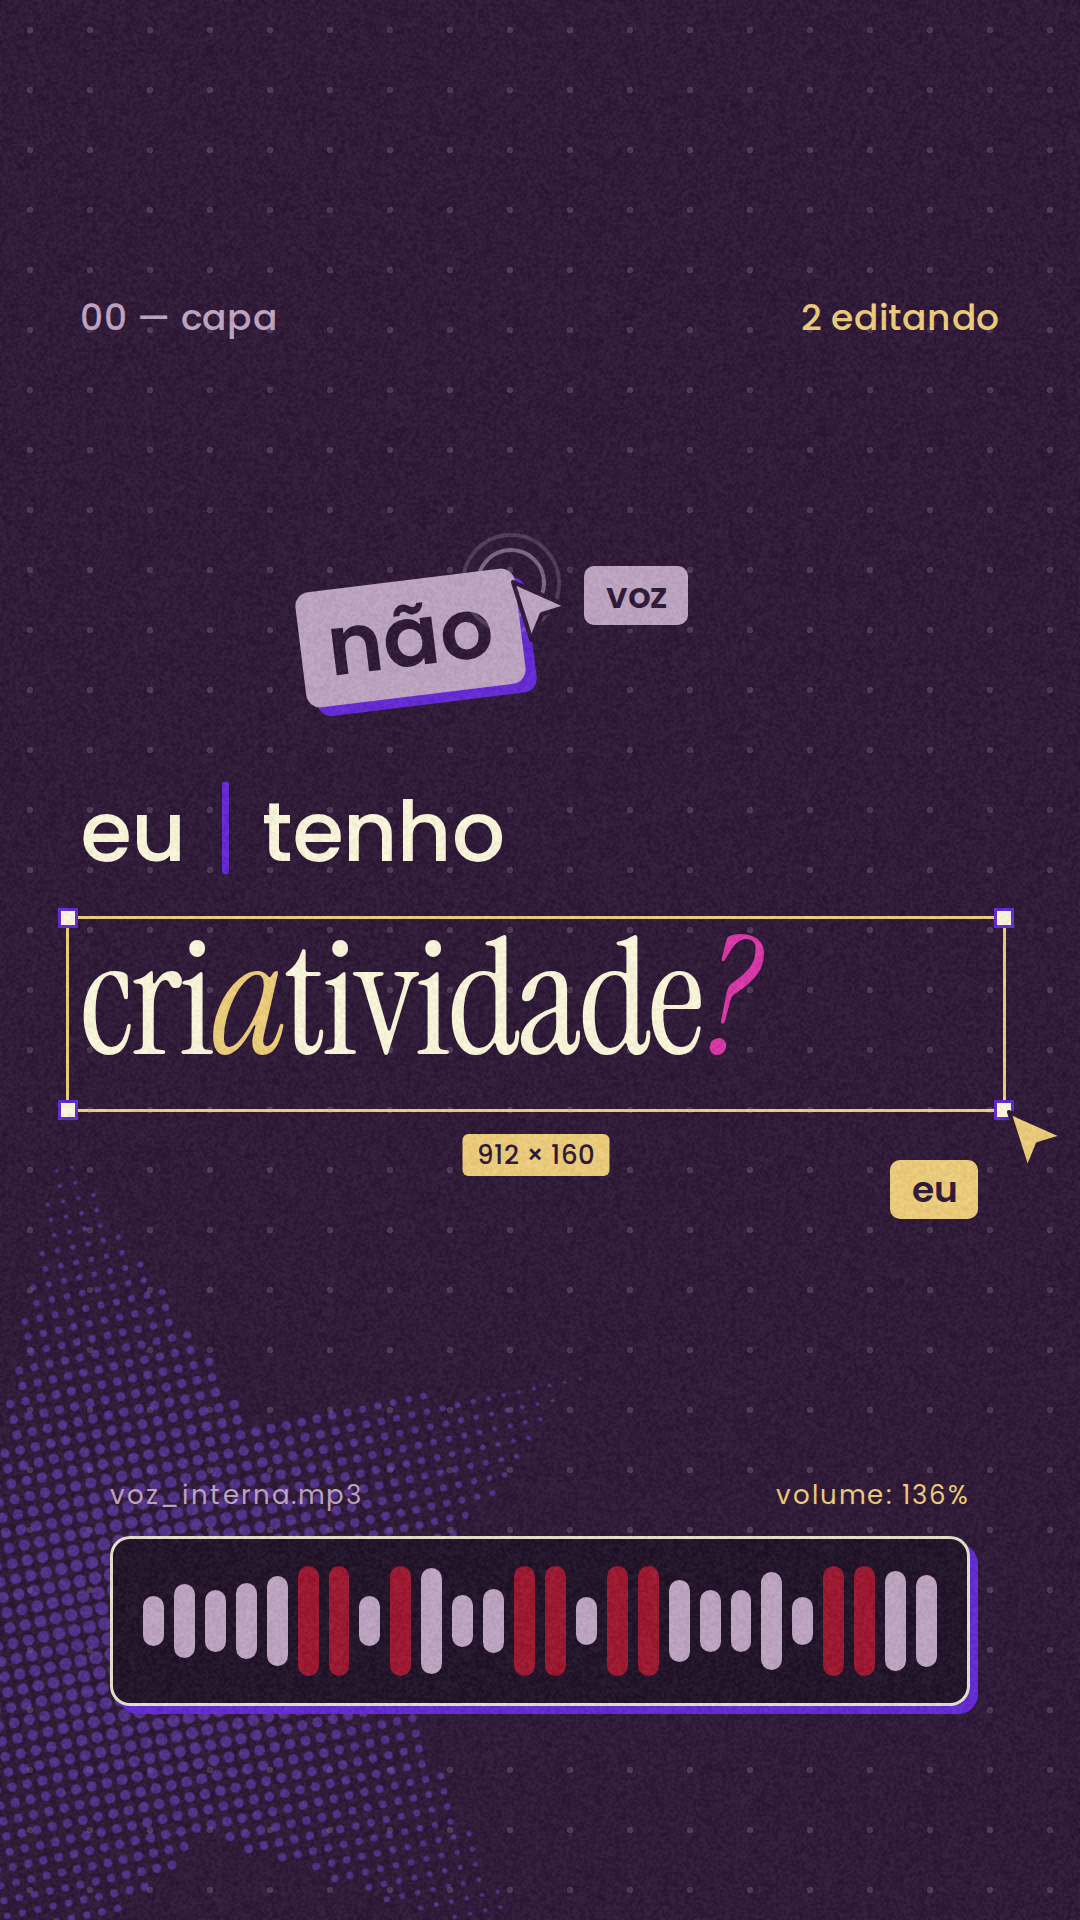
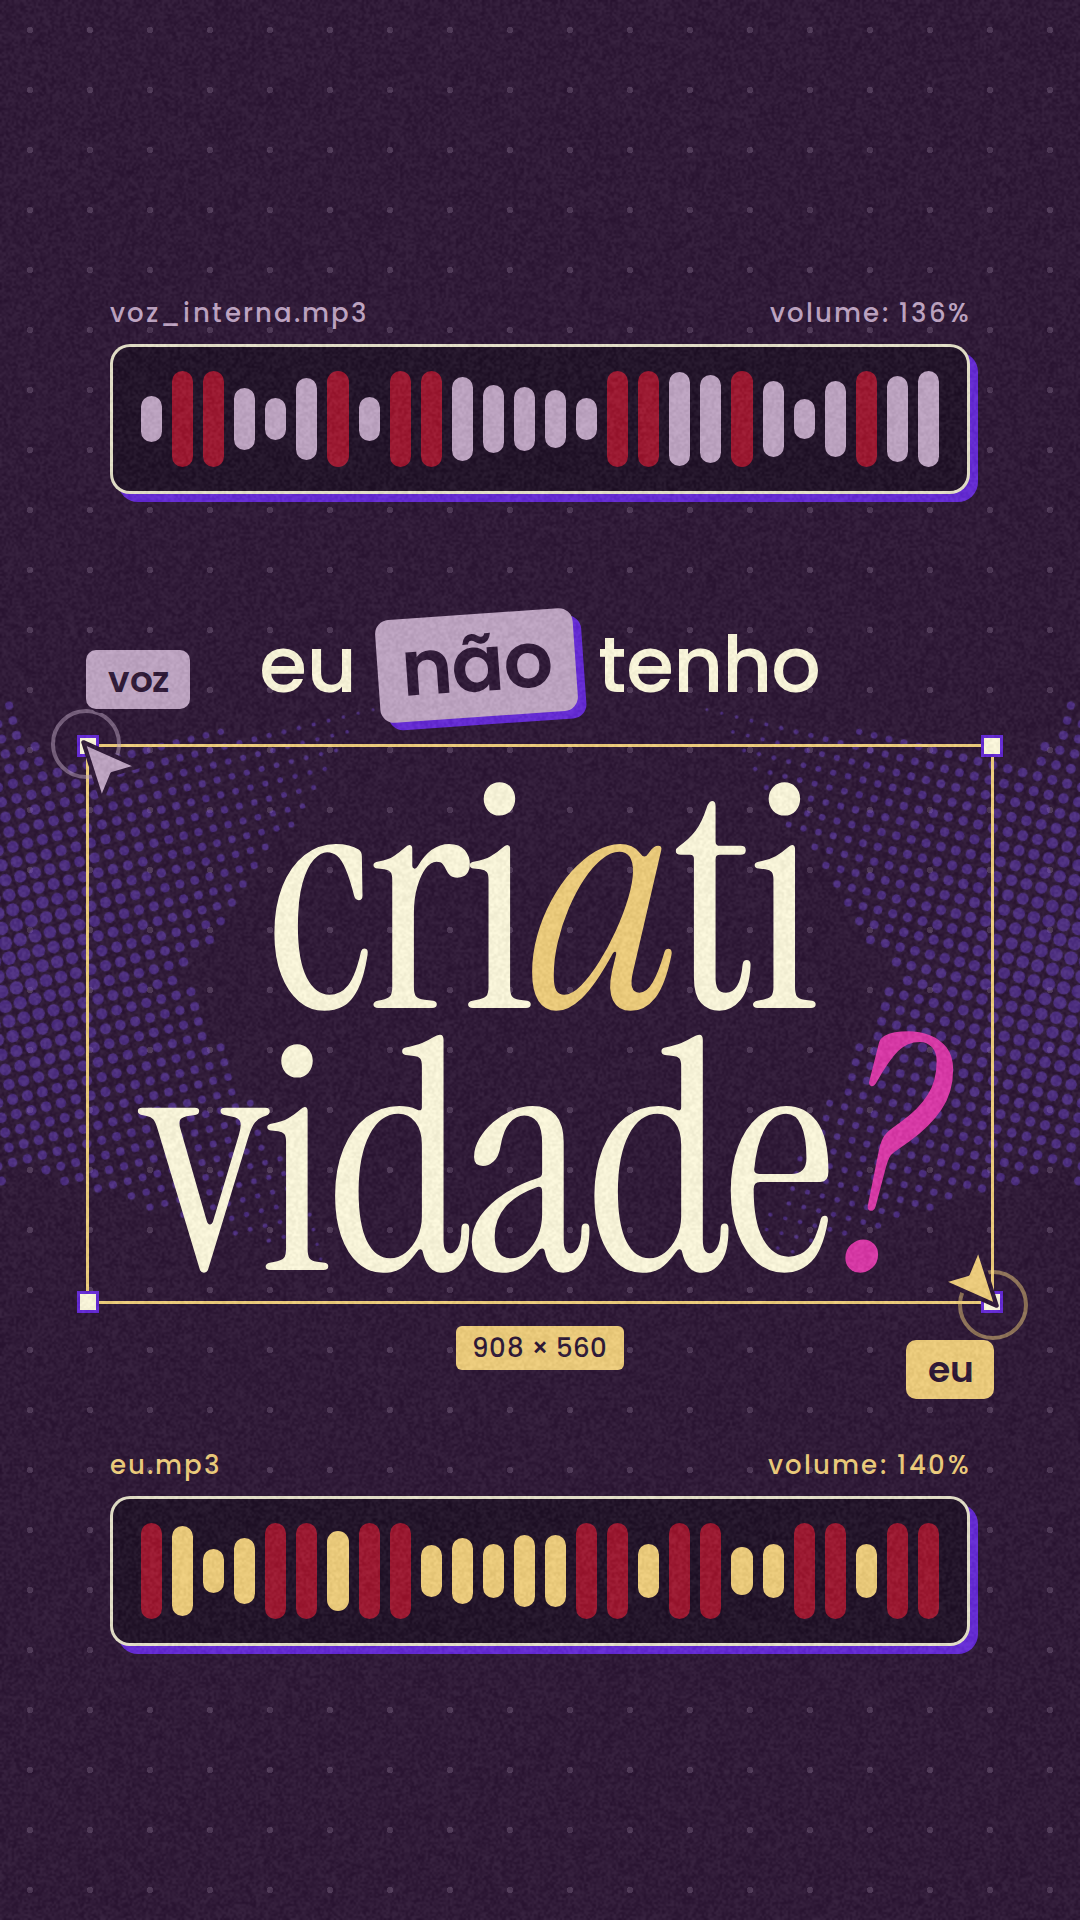
Capa do reel: título centralizado, layout simétrico
"eu não tenho" com o não em adesivo lavanda, "criatividade?" em duas
linhas grandes dentro da seleção, cursores voz e eu nos cantos opostos,
faixa da voz em cima e a do eu embaixo, estrelas espelhadas.

Claude-Session: https://claude.ai/code/session_01V61r7vnvMYmoFHhb9sdMF9

Changed region(s): [[0.0, 0.1562, 1.0, 1.0]]

diff --git a/capas/capa-reel-voz-interna.html b/capas/capa-reel-voz-interna.html
@@ -5,81 +5,75 @@
 @font-face{font-family:Poppins;src:url(../reel-ems/assets/fonts/Poppins-SemiBold.ttf);font-weight:600}
 @font-face{font-family:IS;src:url(../reel-ems/assets/fonts/InstrumentSerif-Regular.ttf);font-style:normal}
 @font-face{font-family:IS;src:url(../reel-ems/assets/fonts/InstrumentSerif-Italic.ttf);font-style:italic}
-:root{--ivory:#fffbde;--tinta:#2a1433;--ameixa:#3d1c46;--violeta:#6225d8;--violeta2:#7b4df2;--lavanda:#c0a5c4;--lavanda2:#e4d6e6;--pink:#dd34a8;--manteiga:#f2cf7a;--wine:#9e122c}
+:root{--ivory:#fffbde;--tinta:#2a1433;--violeta:#6225d8;--violeta2:#7b4df2;--lavanda:#c0a5c4;--lavanda2:#e4d6e6;--pink:#dd34a8;--manteiga:#f2cf7a;--wine:#9e122c}
 *{box-sizing:border-box;margin:0}
 html,body{width:1080px;height:1920px;overflow:hidden}
 body{position:relative;background:var(--tinta) radial-gradient(rgba(192,165,196,.22) 3px,transparent 3.5px) 0 0/60px 60px;font-family:Poppins;color:var(--ivory)}
 .a{position:absolute}
-.abl{font:500 36px/1 Poppins;color:var(--lavanda);letter-spacing:.02em;white-space:nowrap}
-.lead{font:500 84px/1 Poppins;color:var(--ivory);white-space:nowrap;letter-spacing:-.01em}
-.serif{font-family:IS;font-size:160px;line-height:.85;letter-spacing:-.02em;white-space:nowrap;color:var(--ivory)}
+.c{left:540px;transform:translateX(-50%)}
+.label{font:500 26px/1 Poppins;letter-spacing:.08em;white-space:nowrap}
+.lead{font:500 78px/1 Poppins;letter-spacing:-.01em;white-space:nowrap;display:flex;align-items:center;gap:22px}
+.nao{display:inline-block;background:var(--lavanda);color:var(--tinta);font:600 78px/1 Poppins;padding:.14em .3em .18em;border-radius:14px;box-shadow:8px 8px 0 var(--violeta);transform:rotate(-4deg)}
+.serif{font-family:IS;font-size:318px;line-height:.82;letter-spacing:-.02em;white-space:nowrap;color:var(--ivory);text-align:center}
 .serif em{font-style:italic;color:var(--manteiga)}
 .serif .q{font-style:italic;color:var(--pink)}
-.caret{width:7px;height:92px;background:var(--violeta);border-radius:2px}
 .sel{border:3px solid var(--manteiga)}
-.sel i{position:absolute;width:20px;height:20px;background:var(--ivory);border:3px solid var(--violeta)}
-.sel i:nth-child(1){left:-11px;top:-11px}.sel i:nth-child(2){right:-11px;top:-11px}.sel i:nth-child(3){left:-11px;bottom:-11px}.sel i:nth-child(4){right:-11px;bottom:-11px}
-.pill{background:var(--manteiga);color:var(--tinta);font:500 26px/1 Poppins;padding:8px 14px;border-radius:6px;white-space:nowrap}
-.nao{display:inline-block;background:var(--lavanda);color:var(--tinta);font:600 84px/1 Poppins;padding:.18em .32em .2em;border-radius:14px;box-shadow:10px 10px 0 var(--violeta);white-space:nowrap}
-.cur{position:absolute}
-
-.label{font:400 26px/1.2 Poppins;letter-spacing:.08em;white-space:nowrap}
-.track{position:absolute;left:110px;top:1536px;width:860px;height:170px;border-radius:20px;background:#1d0d24;box-shadow:8px 8px 0 var(--violeta);border:3px solid rgba(255,251,222,.9)}
-.bars{position:absolute;left:30px;top:30px;right:30px;bottom:30px;display:flex;align-items:center;gap:10px}
-.bars b{flex:1;border-radius:999px;background:var(--lavanda)}
-.bars b.clip{background:var(--wine)}
-.ring{position:absolute;border:4px solid var(--lavanda);border-radius:50%;opacity:.55}
-#grain{position:absolute;left:0;top:0;width:1080px;height:1920px;opacity:.07;mix-blend-mode:normal;pointer-events:none}
+.sel i{position:absolute;width:22px;height:22px;background:var(--ivory);border:3px solid var(--violeta)}
+.sel i:nth-child(1){left:-12px;top:-12px}.sel i:nth-child(2){right:-12px;top:-12px}.sel i:nth-child(3){left:-12px;bottom:-12px}.sel i:nth-child(4){right:-12px;bottom:-12px}
+.pill{background:var(--manteiga);color:var(--tinta);font:500 26px/1 Poppins;padding:9px 16px;border-radius:6px;white-space:nowrap}
 .name{position:absolute;color:var(--tinta);font:600 36px/1 Poppins;padding:.32em .6em;border-radius:10px;white-space:nowrap;box-shadow:4px 4px 0 var(--tinta)}
+.track{position:absolute;left:110px;width:860px;height:150px;border-radius:20px;background:#1d0d24;border:3px solid rgba(255,251,222,.9)}
+.bars{position:absolute;left:28px;top:26px;right:28px;bottom:26px;display:flex;align-items:center;gap:10px}
+.bars b{flex:1;border-radius:999px}
+.ring{position:absolute;border-radius:50%;opacity:.5}
+#grain{position:absolute;left:0;top:0;width:1080px;height:1920px;opacity:.07;pointer-events:none}
 </style></head><body>
 
-<div class="a abl" style="left:80px;top:300px">00 — capa</div>
-<div class="a abl" style="left:1000px;top:300px;transform:translateX(-100%);color:var(--manteiga)">2 editando</div>
+<!-- estrelas espelhadas -->
+<img class="star a" style="left:-520px;top:470px;width:980px;height:980px;opacity:.4;transform:rotate(-14deg)">
+<img class="star a" style="left:620px;top:470px;width:980px;height:980px;opacity:.4;transform:rotate(14deg) scaleX(-1)">
 
-<img id="star" class="a" style="left:-340px;top:1120px;width:1000px;height:1000px;opacity:.45;transform:rotate(-12deg)">
+<!-- faixa da voz (topo) -->
+<div class="a label" style="left:110px;top:300px;color:var(--lavanda)">voz_interna.mp3</div>
+<div class="a label" style="left:970px;top:300px;transform:translateX(-100%);color:var(--lavanda)">volume: 136%</div>
+<div class="track" style="top:344px;box-shadow:8px 8px 0 var(--violeta)"><div class="bars" id="b1"></div></div>
 
-<!-- linha 1: eu [caret] tenho -->
-<div class="a lead" style="left:80px;top:790px">eu</div>
-<div class="a caret" style="left:222px;top:782px"></div>
-<div class="a lead" style="left:262px;top:790px">tenho</div>
+<!-- título -->
+<div class="a c lead" style="top:614px"><span>eu</span><span class="nao">não</span><span>tenho</span></div>
 
-<!-- "não" sendo inserido pela voz -->
-<div class="a nao" style="left:300px;top:580px;transform:rotate(-7deg)">não</div>
-<div class="ring" style="left:476px;top:548px;width:70px;height:70px"></div>
-<div class="ring" style="left:461px;top:533px;width:100px;height:100px;opacity:.25"></div>
-<div class="cur" style="--c:var(--lavanda);left:504px;top:576px;transform:scale(1.3);transform-origin:0 0">
- <svg width="56" height="56" viewBox="0 0 24 24"><path d="M3 2 L21 10 L12.5 12.5 L9 21 Z" fill="#c0a5c4" stroke="#2a1433" stroke-width="1.4" stroke-linejoin="round"/></svg>
-</div>
-<div class="name" style="background:var(--lavanda);left:584px;top:566px">voz</div>
+<div class="a sel" style="left:86px;top:744px;width:908px;height:560px"><i></i><i></i><i></i><i></i></div>
+<div class="a c serif" style="top:770px">cri<em>a</em>ti</div>
+<div class="a c serif" style="top:1032px">vidade<span class="q">?</span></div>
+<div class="a c pill" style="top:1326px">908 × 560</div>
 
-<!-- linha 2: criatividade? selecionada pelo eu -->
-<div class="a sel" style="left:66px;top:916px;width:940px;height:196px"><i></i><i></i><i></i><i></i></div>
-<div class="a serif" style="left:80px;top:932px">cri<em>a</em>tividade<span class="q">?</span></div>
-<div class="a pill" style="left:536px;top:1134px;transform:translateX(-50%)">912 × 160</div>
-<div class="cur" style="--c:var(--manteiga);left:1000px;top:1106px;transform:scale(1.3);transform-origin:0 0">
- <svg width="56" height="56" viewBox="0 0 24 24"><path d="M3 2 L21 10 L12.5 12.5 L9 21 Z" fill="#f2cf7a" stroke="#2a1433" stroke-width="1.4" stroke-linejoin="round"/></svg>
-</div>
-<div class="name" style="background:var(--manteiga);left:890px;top:1160px">eu</div>
+<!-- cursores nos cantos opostos da seleção -->
+<div class="ring" style="left:51px;top:709px;width:70px;height:70px;border:4px solid var(--lavanda)"></div>
+<div class="a" style="left:77px;top:738px;transform:scale(1.3);transform-origin:9px 6px">
+ <svg width="56" height="56" viewBox="0 0 24 24"><path d="M3 2 L21 10 L12.5 12.5 L9 21 Z" fill="#c0a5c4" stroke="#2a1433" stroke-width="1.4" stroke-linejoin="round"/></svg></div>
+<div class="name" style="background:var(--lavanda);left:86px;top:650px">voz</div>
 
-<!-- faixa de áudio da voz -->
-<div class="a label" style="left:110px;top:1480px;color:var(--lavanda)">voz_interna.mp3</div>
-<div class="a label" style="left:970px;top:1480px;transform:translateX(-100%);color:var(--manteiga)">volume: 136%</div>
-<div class="track"><div class="bars" id="bars"></div></div>
+<div class="ring" style="left:958px;top:1270px;width:70px;height:70px;border:4px solid var(--manteiga)"></div>
+<div class="a" style="left:985px;top:1298px;transform:rotate(180deg) scale(1.3);transform-origin:9px 6px">
+ <svg width="56" height="56" viewBox="0 0 24 24"><path d="M3 2 L21 10 L12.5 12.5 L9 21 Z" fill="#f2cf7a" stroke="#2a1433" stroke-width="1.4" stroke-linejoin="round"/></svg></div>
+<div class="name" style="background:var(--manteiga);left:906px;top:1340px">eu</div>
+
+<!-- faixa do eu (base) -->
+<div class="a label" style="left:110px;top:1452px;color:var(--manteiga)">eu.mp3</div>
+<div class="a label" style="left:970px;top:1452px;transform:translateX(-100%);color:var(--manteiga)">volume: 140%</div>
+<div class="track" style="top:1496px;box-shadow:8px 8px 0 var(--violeta)"><div class="bars" id="b2"></div></div>
 
 <img id="grain" alt="">
 <script>
-// estrela em retícula, igual ao reel
 (function(){const size=900,color='#7b4df2';const c=document.createElement('canvas');c.width=c.height=size;const g=c.getContext('2d');
 const cx=size/2,cy=size/2,R=size*.49,r=R*.45;const pts=[];
 for(let i=0;i<10;i++){const a=-Math.PI/2+i*Math.PI/5;const rr=i%2?r:R;pts.push([cx+rr*Math.cos(a),cy+rr*Math.sin(a)]);}
 const path=new Path2D();pts.forEach((p,i)=>i?path.lineTo(...p):path.moveTo(...p));path.closePath();
 g.fillStyle=color;const step=size/64;
 for(let y=step/2;y<size;y+=step)for(let x=step/2;x<size;x+=step){if(!g.isPointInPath(path,x,y))continue;const d=Math.hypot(x-cx,y-cy)/R;const rad=step*.48*(1-d*.82);if(rad>.6){g.beginPath();g.arc(x,y,rad,0,7);g.fill();}}
-document.getElementById('star').src=c.toDataURL();})();
-// barras
-const n=26,bars=document.getElementById('bars');let seed=0;
-for(let i=0;i<n;i++){const v=.25+.75*Math.abs(Math.sin(i*.9+3.1)*Math.cos(i*.37-2.2));let h=v*1.7;const clip=h>1;h=Math.min(1,h);const b=document.createElement('b');b.style.height=Math.max(10,h*110)+'px';if(clip)b.className='clip';bars.appendChild(b);}
-// grão
+document.querySelectorAll('.star').forEach(e=>e.src=c.toDataURL());})();
+function bars(id,color,amp,seed){const el=document.getElementById(id);const n=26;
+ for(let i=0;i<n;i++){const v=.25+.75*Math.abs(Math.sin(i*.9+seed)*Math.cos(i*.37-seed*2));let h=v*amp;const clip=h>1;h=Math.min(1,h);const b=document.createElement('b');b.style.height=Math.max(10,h*96)+'px';b.style.background=clip?'#9e122c':color;el.appendChild(b);}}
+bars('b1','#c0a5c4',1.7,3.1);bars('b2','#f2cf7a',1.75,1.2);
 const gc=document.createElement('canvas');gc.width=540;gc.height=960;const gg=gc.getContext('2d');const im=gg.createImageData(540,960);
 for(let i=0;i<im.data.length;i+=4){const v=Math.random()*255;im.data[i]=im.data[i+1]=im.data[i+2]=v;im.data[i+3]=255;}
 gg.putImageData(im,0,0);document.getElementById('grain').src=gc.toDataURL('image/jpeg',.8);
